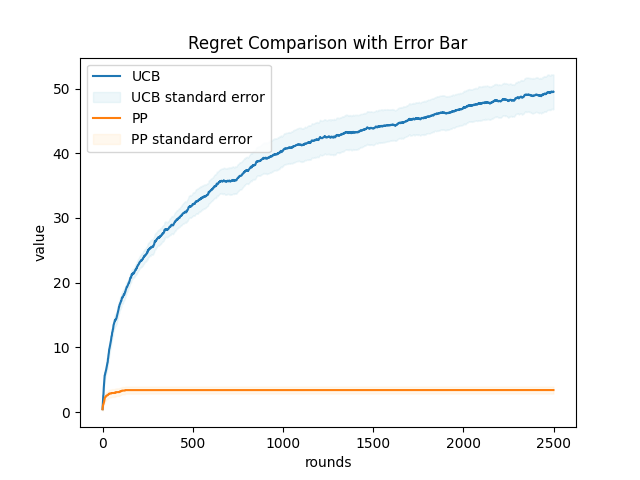
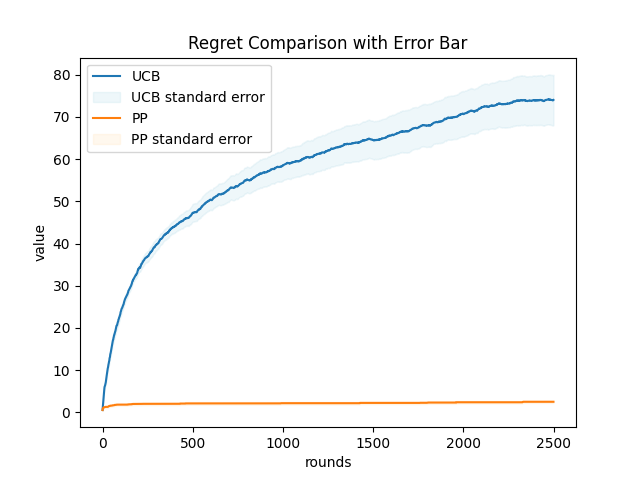
update get_irrelevant_calendar

diff --git a/simulator.py b/simulator.py
@@ -66,15 +66,13 @@ def get_irrelevant_calendar():
         # allow 1 in max for each irrelevant event
         num_each = np.random.randint(0, 2, size=1)[0]
         for _ in range(num_each):
-            # randomly assign the position for the irrelevant events
-            probability = np.random.uniform(0, 1, total_slots)
-            probability_normalized = probability / probability.sum()
-            each_position = np.random.choice(
-                [0, 1, 2, 3, 4], p=probability_normalized)
-            # print("each_position=", each_position)
+            # Randomly select a day and time slot for each irrelevant event
+            day = np.random.randint(0, num_days)
+            time_slot = np.random.randint(0, num_slots_per_day)
+            position = day * num_slots_per_day + time_slot
 
-            if st_irrelevant_calendar[each_position] == -1:
-                st_irrelevant_calendar[each_position] = each
+            if st_irrelevant_calendar[position] == -1:
+                st_irrelevant_calendar[position] = each
             else:
                 # if there is already an event, skip
                 # print("Skipped placement")
@@ -208,12 +206,12 @@ def simulation(rounds=int(2500)):
 
     # simulate preference
     preference = np.random.uniform(
-        0, 1, len(relevant_events)*number_of_slots)
+        0, 1, len(relevant_events)*total_slots)
     # print("============Preference============")
     # print("preference=", preference)
 
     # initialize the algorithm
-    linear_ucb = LinearUCB(relevant_events, number_of_slots)
+    linear_ucb = LinearUCB(relevant_events, total_slots)
     # initialize reward
     ucb_total_reward = 0.0
     ucb_total_regret = 0.0
@@ -223,7 +221,7 @@ def simulation(rounds=int(2500)):
     pp_total_regret = 0.0
 
     #initialize weights for perceptron
-    num_features = len(relevant_events)*number_of_slots
+    num_features = len(relevant_events) * total_slots 
     w = np.zeros(num_features)
 
     # Rounds of simulations
@@ -238,7 +236,7 @@ def simulation(rounds=int(2500)):
         feature_factors = []
         for each_possible_calendar in possible_calendars:
             feature_factors.append(featureListGenerator(
-                each_possible_calendar, [number_of_slots]))
+                each_possible_calendar, [total_slots]))
 
         ucb_chosen_action_at = linear_ucb.actionSelection(
             possible_calendars, feature_factors)
@@ -258,7 +256,7 @@ def simulation(rounds=int(2500)):
 
         # get the reward - reward of the true human preference
         chosen_action_feature_list = featureListGenerator(
-            ucb_chosen_action_at, [number_of_slots])
+            ucb_chosen_action_at, [total_slots])
         ucb_human_reward = np.dot(preference, chosen_action_feature_list)
         # print("ucb human reward=", ucb_human_reward)
 
@@ -292,20 +290,20 @@ def simulation(rounds=int(2500)):
         best_action = None
         max_val = float('-inf')
         for calendar in possible_calendars:
-            feature_vector = featureListGenerator(calendar, [number_of_slots])
+            feature_vector = featureListGenerator(calendar, [total_slots])
             val = np.dot(w.T, feature_vector)
             if val > max_val:
                 max_val = val
                 best_action = calendar
         #Get reward for best action based on preference
-        pp_reward = np.dot(preference, featureListGenerator(best_action, [number_of_slots]))
+        pp_reward = np.dot(preference, featureListGenerator(best_action, [total_slots]))
         # print("Reward for best action based on Perceptron: ", pp_reward)
         pp_total_reward += pp_reward
 
         #obtain feedback by selecting from calendars with rewards greater than or equal to the best action reward
         feedback_calendars = []
         for calendar in possible_calendars:
-            calendar_reward = np.dot(preference, featureListGenerator(calendar, [number_of_slots]))
+            calendar_reward = np.dot(preference, featureListGenerator(calendar, [total_slots]))
             if calendar_reward >= pp_reward:
                 feedback_calendars.append(calendar)
         if not feedback_calendars:
@@ -314,15 +312,15 @@ def simulation(rounds=int(2500)):
         #Randomly select a feedback calendar
         feedback_index = np.random.choice(len(feedback_calendars))
         feedback = feedback_calendars[feedback_index]
-        feedback_reward = np.dot(preference, featureListGenerator(feedback, [number_of_slots]))
+        feedback_reward = np.dot(preference, featureListGenerator(feedback, [total_slots]))
         pp_total_feedback_reward += feedback_reward
 
         #Regret calculation
-        best_possible_reward_pp = max(np.dot(preference, featureListGenerator(calendar, [number_of_slots])) for calendar in possible_calendars)
+        best_possible_reward_pp = max(np.dot(preference, featureListGenerator(calendar, [total_slots])) for calendar in possible_calendars)
         pp_total_regret += best_possible_reward_pp - pp_reward
         
-        phi_best_action = np.array(featureListGenerator(best_action, [number_of_slots]))
-        phi_feedback = np.array(featureListGenerator(feedback, [number_of_slots]))
+        phi_best_action = np.array(featureListGenerator(best_action, [total_slots]))
+        phi_feedback = np.array(featureListGenerator(feedback, [total_slots]))
 
         #Update weights
         w +=  phi_feedback - phi_best_action 
